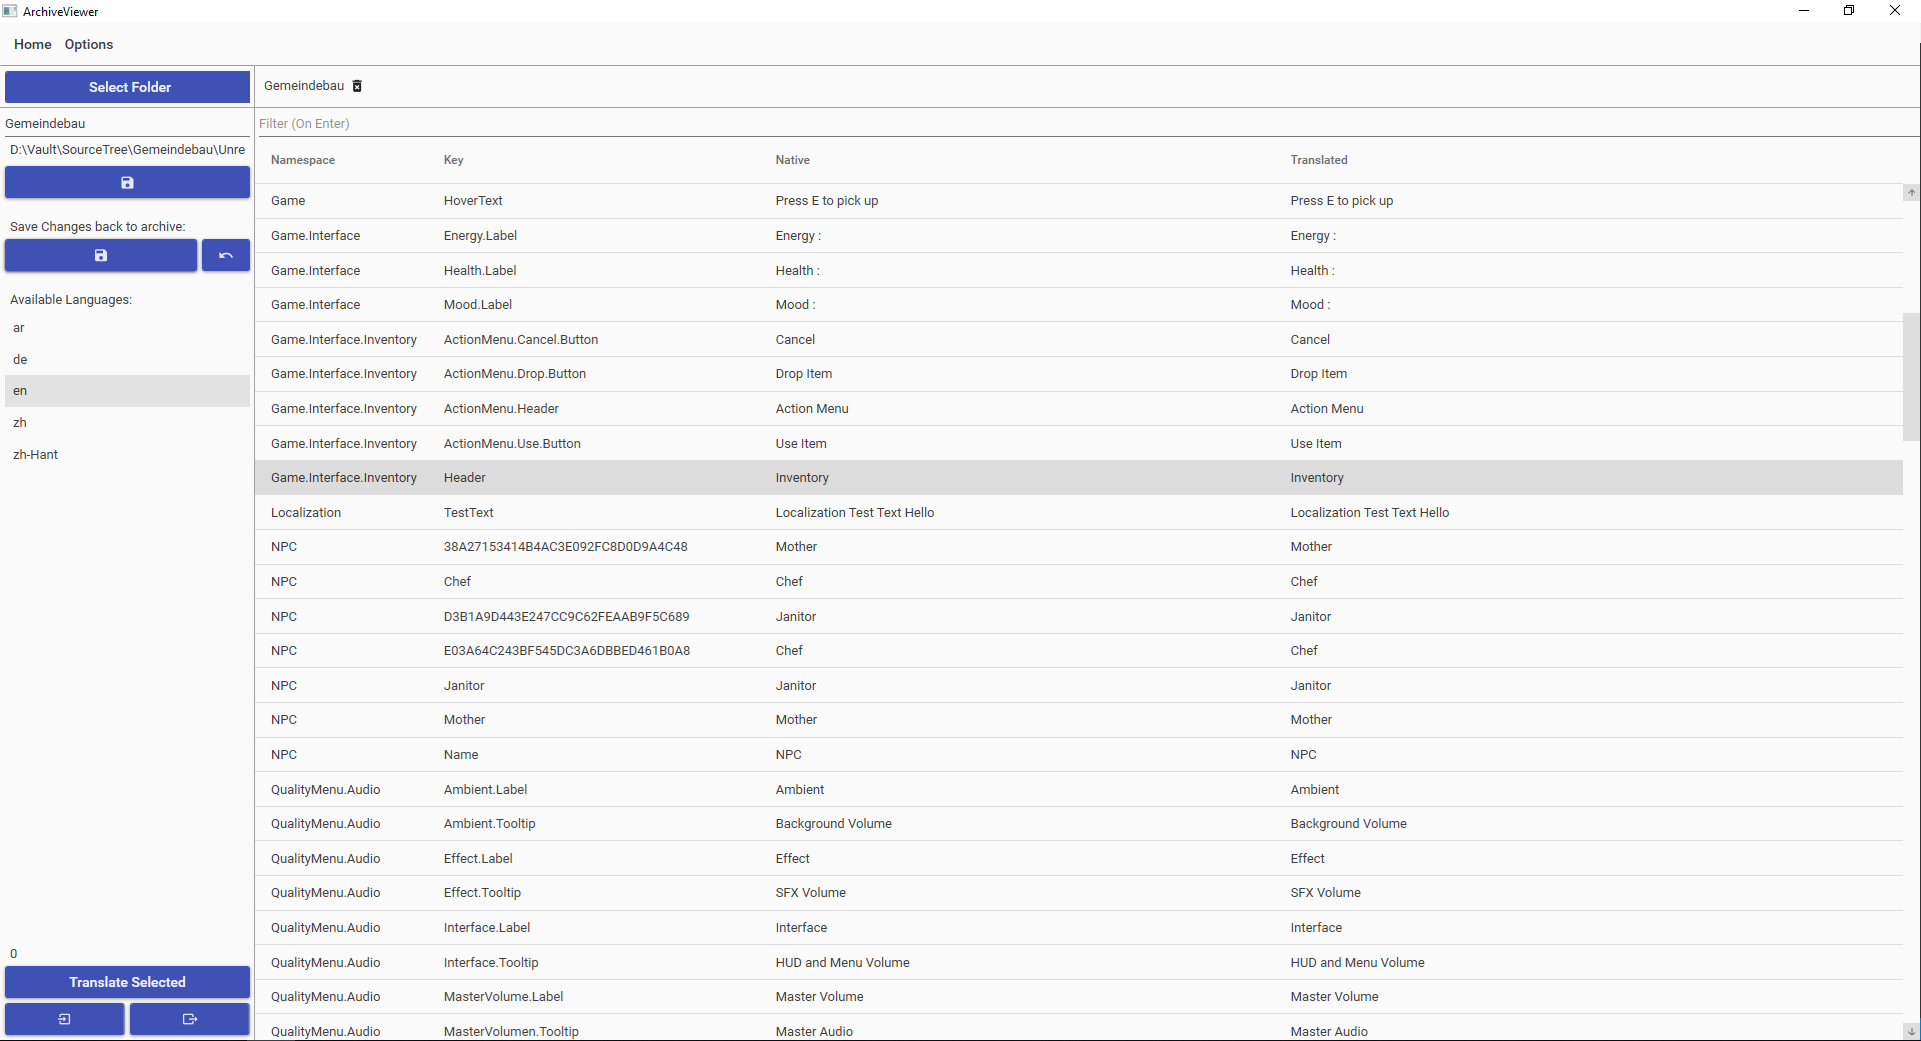
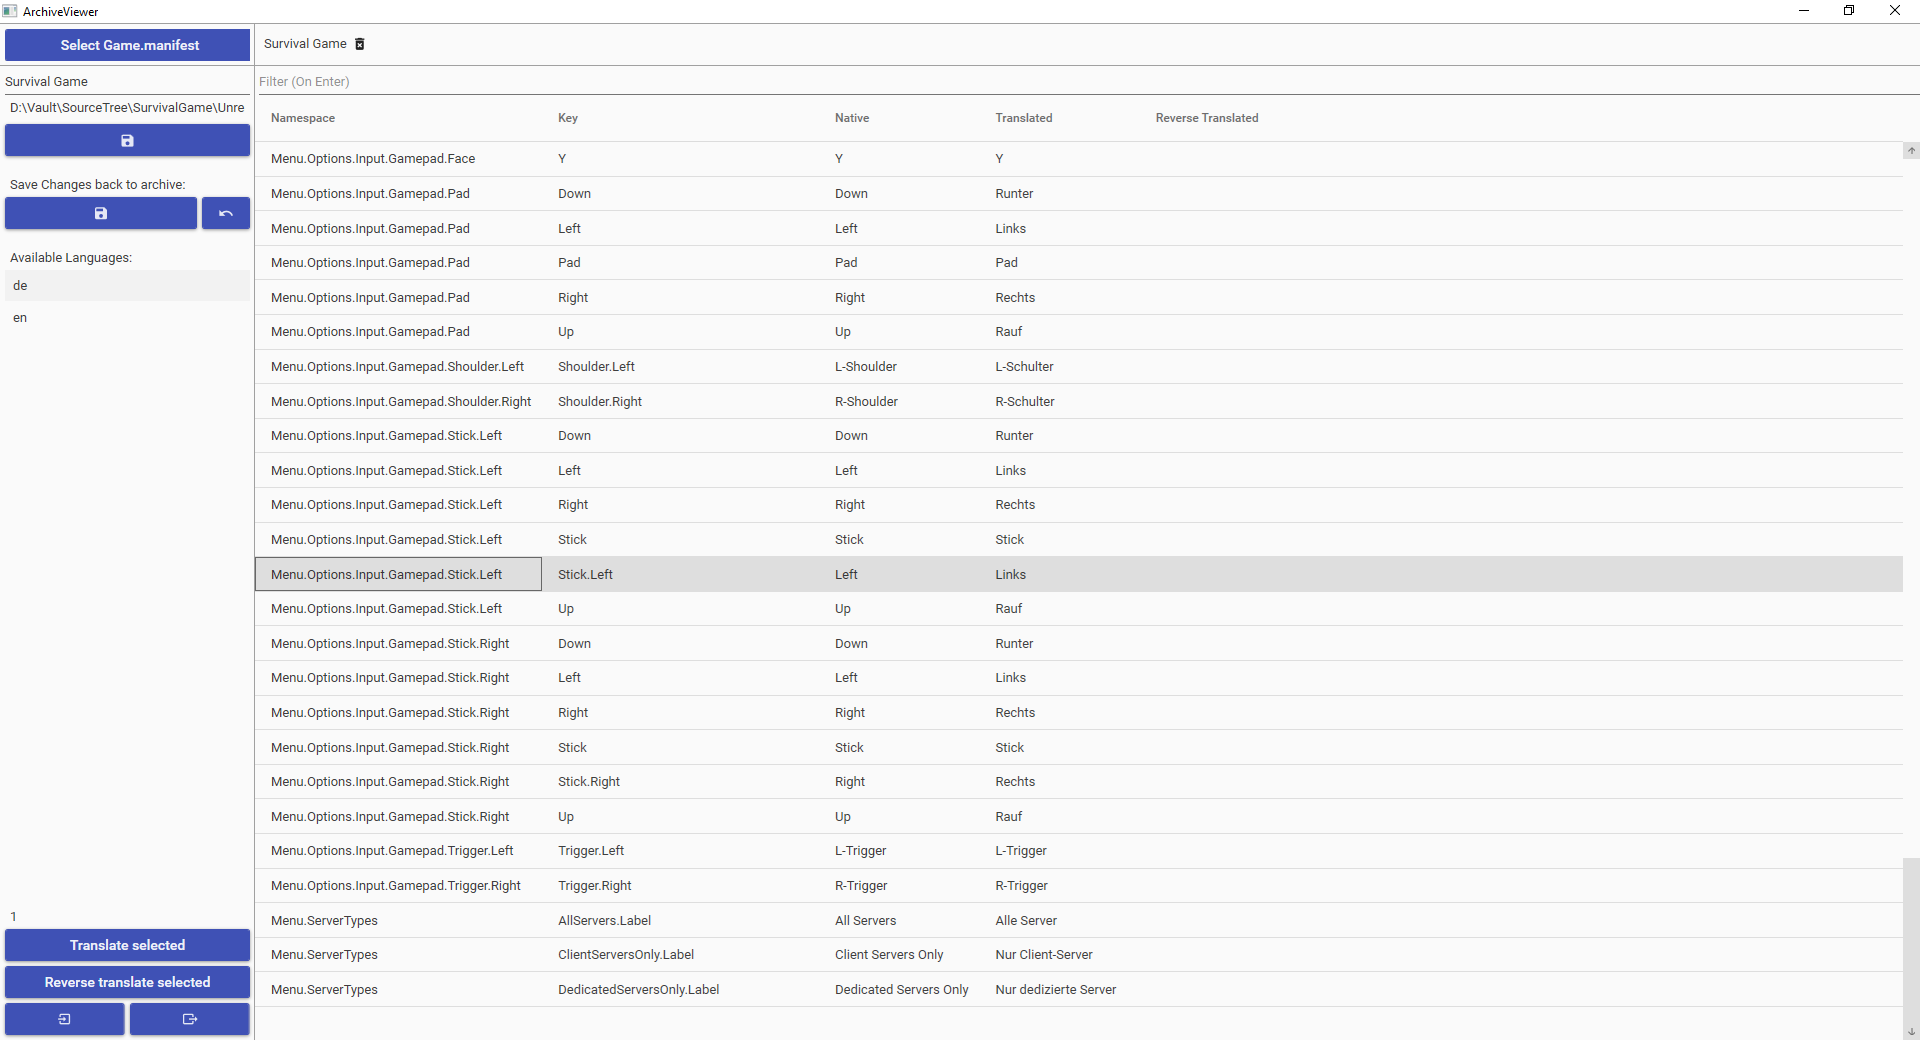
Added checks if there is no API JSON file. Update image. Updated ReadMe Added Tooltips to some buttons. Fixed a bug where more properties than intended where exported with the CSV export.

diff --git a/ArchiveViewer/ArchiveViewer/UserControls/Home/HomeView.xaml b/ArchiveViewer/ArchiveViewer/UserControls/Home/HomeView.xaml
@@ -24,7 +24,7 @@
             <RowDefinition Height="9px" />
             <RowDefinition Height="*" />
         </Grid.RowDefinitions>
-        <Button Margin="5 5 0 0" Width="250" Grid.Row="0" Grid.Column="0" Content="Select Folder"
+        <Button Margin="5 5 0 0" Width="250" Grid.Row="0" Grid.Column="0" Content="Select Game.manifest"
                 cal:Message.Attach="SelectFolder()" />
         <ItemsControl Grid.Row="0" Grid.Column="2" ItemsSource="{Binding Projects}" Margin="0 7 0 0">
             <ItemsControl.ItemsPanel>
@@ -90,7 +90,7 @@
                          materialDesign:HintAssist.Hint="Project Name" />
                 <Label Content="{Binding SelectedProject.Path}" Grid.Row="1" ToolTip="{Binding SelectedProject.Path}"
                        cal:Message.Attach="[Event MouseDown] = [Action SavePathToClipBoard()]" />
-                <Button cal:Message.Attach="SaveSelectedProject()" Grid.Row="2">
+                <Button cal:Message.Attach="SaveSelectedProject()" Grid.Row="2" ToolTip="Bookmark current path">
                     <materialDesign:PackIcon Kind="ContentSave" VerticalAlignment="Center" />
                 </Button>
             </Grid>
@@ -101,7 +101,7 @@
                         <ColumnDefinition />
                         <ColumnDefinition Width="Auto"/>
                     </Grid.ColumnDefinitions>
-                    <Button cal:Message.Attach="SaveChanges()">
+                    <Button cal:Message.Attach="SaveChanges()" ToolTip="Save changes">
                         <materialDesign:PackIcon Kind="ContentSave" VerticalAlignment="Center" />
                     </Button>
                     <Button Grid.Column="1" cal:Message.Attach="RevertSave()" Margin="5 0 0 0" materialDesign:HintAssist.Hint="Role back changes if there is a .bak file.">
@@ -122,10 +122,10 @@
                         <ColumnDefinition />
                         <ColumnDefinition />
                     </Grid.ColumnDefinitions>
-                    <Button Grid.Column="0" Margin="0 0 3 0" cal:Message.Attach="ImportCsv">
+                    <Button Grid.Column="0" Margin="0 0 3 0" cal:Message.Attach="ImportCsv" ToolTip="Import from CSV">
                         <materialDesign:PackIcon Kind="Import" VerticalAlignment="Top" HorizontalAlignment="Left" />
                     </Button>
-                    <Button Grid.Column="1" Margin="3 0 0 0" cal:Message.Attach="ExportCsv">
+                    <Button Grid.Column="1" Margin="3 0 0 0" cal:Message.Attach="ExportCsv" ToolTip="Export to CSV">
                         <materialDesign:PackIcon Kind="Export" VerticalAlignment="Center" />
                     </Button>
                 </Grid>

diff --git a/ArchiveViewer/ArchiveViewer/UserControls/Shell/ShellView.xaml b/ArchiveViewer/ArchiveViewer/UserControls/Shell/ShellView.xaml
@@ -17,9 +17,18 @@
     <Grid>
         <Grid.RowDefinitions>
             <RowDefinition Height="Auto" />
+            <RowDefinition />
+        </Grid.RowDefinitions>
+        <Separator Grid.Row="0" Margin="0"/>
+        <ContentControl Grid.Row="1" cal:View.Model="{Binding ActiveItem}" />
+    </Grid>
+    <!--<Grid>
+        <Grid.RowDefinitions>
+            <RowDefinition Height="Auto" />
             <RowDefinition Height="Auto" />
             <RowDefinition />
         </Grid.RowDefinitions>
+
         <Grid Margin="5" Grid.Row="0">
             <StackPanel Orientation="Horizontal" HorizontalAlignment="Left">
                 <Button cal:Message.Attach="ShowHome()" materialDesign:RippleAssist.IsDisabled="True"
@@ -35,9 +44,8 @@
             </StackPanel>
         </Grid>
         <Separator Grid.Row="1" Margin="0" />
-
         <Grid Grid.Row="2">
             <ContentControl cal:View.Model="{Binding ActiveItem}" />
         </Grid>
-    </Grid>
+    </Grid>-->
 </Window>

diff --git a/ArchiveViewer/ArchiveViewer/UserControls/Home/HomeViewModel.cs b/ArchiveViewer/ArchiveViewer/UserControls/Home/HomeViewModel.cs
@@ -194,6 +194,8 @@ namespace ArchiveViewer.UserControls.Home
                 if (_selectedArchiveItemCount == value) return;
                 _selectedArchiveItemCount = value;
                 NotifyOfPropertyChange();
+                NotifyOfPropertyChange(() => CanAutoTranslateSelected);
+                NotifyOfPropertyChange(() => CanReverseTranslateSelected);
             }
         }
 
@@ -202,9 +204,18 @@ namespace ArchiveViewer.UserControls.Home
             SelectedArchiveItemCount = SelectedArchiveItems.Count;
         }
 
+        public bool CanAutoTranslateSelected => _translator.IsInitialized() && SelectedArchiveItemCount != 0;
+        public bool CanReverseTranslateSelected => _translator.IsInitialized() && SelectedArchiveItemCount != 0;
+
         public void AutoTranslateSelected()
         {
             string[] toTranslate = SelectedArchiveItems.Select(d => d.Native).ToArray();
+
+            if (!_translator.IsInitialized())
+            {
+                MessageBox.Show("Translator is not initialized.", "Error", MessageBoxButtons.OK);
+                return;
+            }
 
             if (toTranslate.Length == 0)
             {
@@ -236,6 +247,12 @@ namespace ArchiveViewer.UserControls.Home
         public void ReverseTranslateSelected()
         {
             string[] toTranslate = SelectedArchiveItems.Select(d => d.Translated).ToArray();
+
+            if (!_translator.IsInitialized())
+            {
+                MessageBox.Show("Translator is not initialized.", "Error", MessageBoxButtons.OK);
+                return;
+            }
 
             if (toTranslate.Length == 0)
             {

diff --git a/ArchiveViewer/ArchiveViewer/Library/Translation/GoogleTranslator.cs b/ArchiveViewer/ArchiveViewer/Library/Translation/GoogleTranslator.cs
@@ -9,12 +9,23 @@ namespace ArchiveViewer.Library.Translation
     public class GoogleTranslator : Singleton<GoogleTranslator>, ITranslator
     {
         private TranslationClient _translationClient;
+        private string googleKey = "GoogleKey.json";
+        private bool _isInitialized;
 
         public void Init()
         {
-            string token = File.ReadAllText("ArchiveViewer.json");
-            GoogleCredential googleCredential = GoogleCredential.FromJson(token);
-            _translationClient = TranslationClient.Create(googleCredential);
+            if (File.Exists(googleKey))
+            {
+                string token = File.ReadAllText(googleKey);
+                GoogleCredential googleCredential = GoogleCredential.FromJson(token);
+                _translationClient = TranslationClient.Create(googleCredential);
+                _isInitialized = true;
+            }
+        }
+
+        public bool IsInitialized()
+        {
+            return _isInitialized;
         }
 
         public int MaxTranslations()

diff --git a/ArchiveViewer/ArchiveViewer/UserControls/Home/CsvImportExport.cs b/ArchiveViewer/ArchiveViewer/UserControls/Home/CsvImportExport.cs
@@ -24,11 +24,9 @@ namespace ArchiveViewer.UserControls.Home
             {
                 var csv = new CsvReader(reader);
                 csv.Configuration.HasHeaderRecord = true;
-                csv.Configuration.HeaderValidated = null;
-                csv.Configuration.MissingFieldFound = null;
+                csv.Configuration.RegisterClassMap<ArchiveItemMap>();
 
                 archiveItems.Clear();
-                csv.Read();
                 csv.ReadHeader();
                 while (csv.Read())
                 {
@@ -55,6 +53,7 @@ namespace ArchiveViewer.UserControls.Home
             using (TextWriter writer = new StreamWriter(dlg.FileName))
             {
                 var csv = new CsvWriter(writer);
+                csv.Configuration.RegisterClassMap<ArchiveItemMap>();
                 csv.WriteRecords(archiveItems);
             }
         }

diff --git a/ArchiveViewer/ArchiveViewer/UserControls/Home/ArchiveParser.cs b/ArchiveViewer/ArchiveViewer/UserControls/Home/ArchiveParser.cs
@@ -3,7 +3,7 @@ using System.Collections.Generic;
 using System.IO;
 using System.Linq;
 using System.Text;
-using System.Windows;
+using System.Windows.Forms;
 using ArchiveViewer.Models;
 using ArchiveViewer.Models.Archive;
 using Newtonsoft.Json;
@@ -182,6 +182,11 @@ namespace ArchiveViewer.UserControls.Home
         {
             string path = project.Path + "\\" + language;
             path += "\\" + Path.GetFileName(project.Path) + ".bak";
+            if (!File.Exists(path))
+            {
+                MessageBox.Show("There is nothing to revert. You need to save changes to undo them.", "Error", MessageBoxButtons.OK);
+                return;
+            }
             if (File.Exists(path.Replace(".bak", ".archive")))
             {
                 File.Copy(path, path.Replace(".bak", ".archive"), true);

diff --git a/ArchiveViewer/ArchiveViewer/Models/ArchiveItemMap.cs b/ArchiveViewer/ArchiveViewer/Models/ArchiveItemMap.cs
@@ -1,0 +1,15 @@
+using CsvHelper.Configuration;
+
+namespace ArchiveViewer.Models
+{
+    public sealed class ArchiveItemMap : CsvClassMap<ArchiveItem>
+    {
+        public ArchiveItemMap()
+        {
+            Map(m => m.Namespace).Index(0).Name("Namespace");
+            Map(m => m.Key).Index(1).Name("Key");
+            Map(m => m.Native).Index(2).Name("Native");
+            Map(m => m.Translated).Index(3).Name("Translated");
+        }
+    }
+}

diff --git a/ArchiveViewer/ArchiveViewer/Interfaces/ITranslator.cs b/ArchiveViewer/ArchiveViewer/Interfaces/ITranslator.cs
@@ -6,5 +6,6 @@
         string Translate(string text, string culture);
         string[] Translate(string[] texts, string culture);
         void Init();
+        bool IsInitialized();
     }
 }

diff --git a/README.md b/README.md
@@ -1,8 +1,21 @@
-# ArchiveViewer
+#Archive Viewer
 
-Archive Viewer is a program to edit .archive files, which Unreal Engine 4 uses to save its' localization data.
+Archive Viewer is a program to view and edit .archive files, which Unreal Engine 4 uses to save its' localization data.
 
 
 ![archive viewer interface][archive_viewer_1]
 
 [archive_viewer_1]: https://github.com/Unavi/ArchiveViewer/blob/master/Images/ArchiveViewer_1.png
+
+Select the Game.manifest Unreal generates for you and bookmark it for later under a name of your choosing.
+
+Select the language you want to translate and enter the translated text into the Translated column. After you are done press the Save Changes back to archive button.
+
+Aside from editing the translations in the Archive Viewer you can export and import them with the two lower left buttons.
+
+After you saved the changes press __Compile Text__ from your Localization Dashboard and the updated text should appear when you change the language and start the game in standalone mode.
+
+####Automatic translation
+If you add a file named GoogleKey.json in the folder of the ArchivViewer.exe with a [Google Translation API](https://cloud.google.com/translate/docs/) Key inside, you can translate text automatically into the disired language with the buttons __Translate Selected__ and __Reverse translate selected__ to check if everything is properly translated in languages where you might otherwise not be able to read the letters.
+
+You still have to hire people to properly translate your game but it is good enough for testing.
